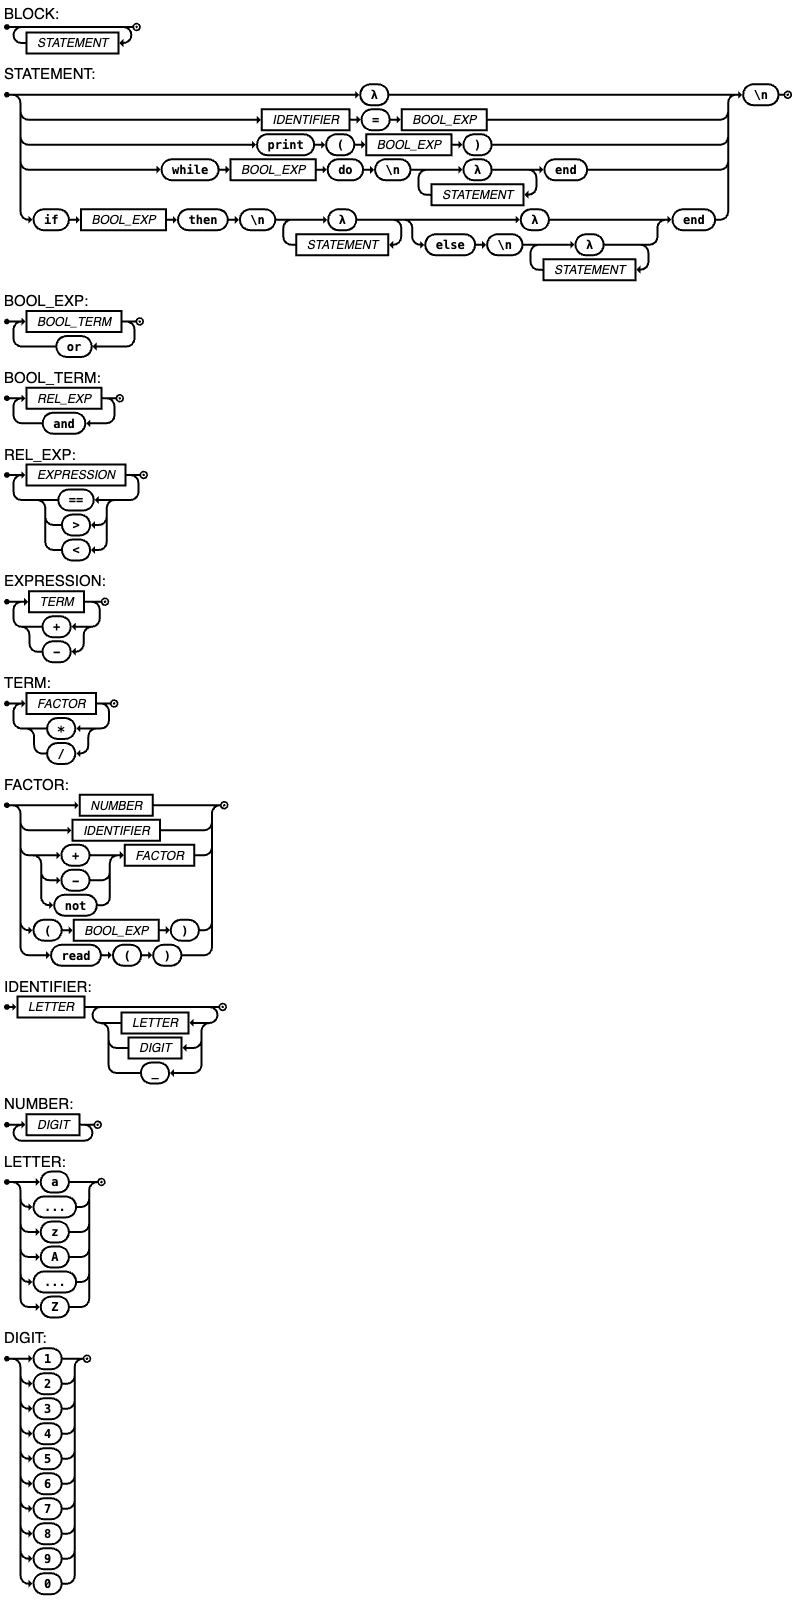
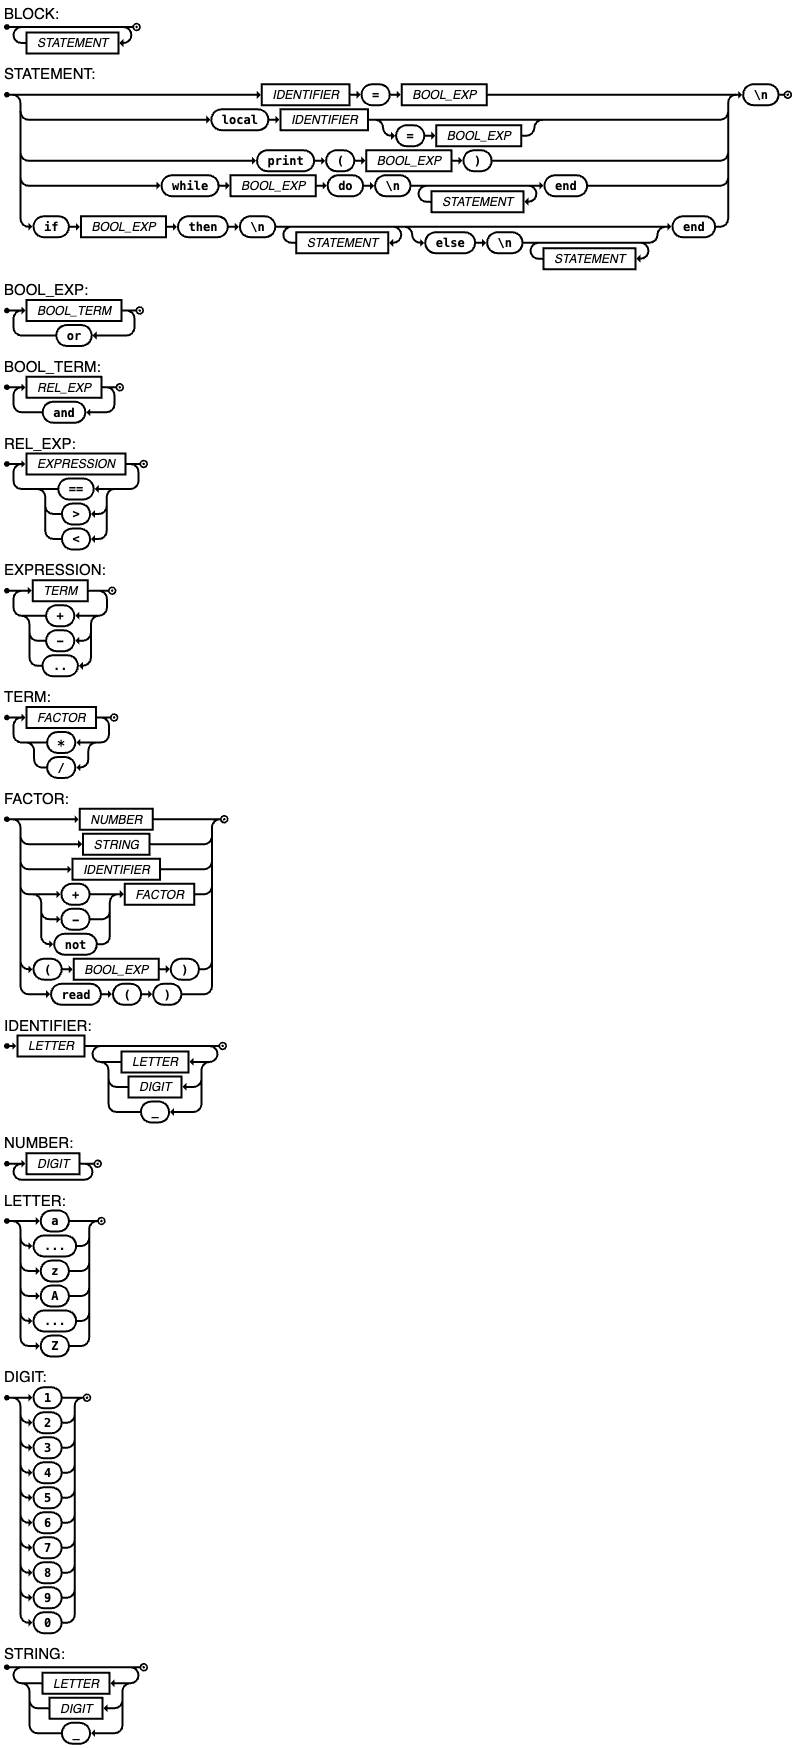
Corrigir bugs no código

Changed region(s): [[0.0, 0.0, 0.9937, 1.0]]

diff --git a/main.swift b/main.swift
@@ -24,10 +24,15 @@ class PrePro {
   }
 }
 
+enum EvalResult {
+  case integer(Int)
+  case string(String)
+}
+
 protocol Node {
   var value: String { get set }
   var children: [Node] { get set }
-  func evaluate() -> Int
+  func evaluate() -> EvalResult
 }
 
 class BinOp: Node {
@@ -39,27 +44,38 @@ class BinOp: Node {
     self.children = children
   }
 
-  func evaluate() -> Int {
-    if self.value == "PLUS" {
-      return self.children[0].evaluate() + self.children[1].evaluate()
-    } else if self.value == "MINUS" {
-      return self.children[0].evaluate() - self.children[1].evaluate()
-    } else if self.value == "MUL" {
-      return self.children[0].evaluate() * self.children[1].evaluate()
-    } else if self.value == "DIV" {
-      return self.children[0].evaluate() / self.children[1].evaluate()
-    } else if self.value == "OR" {
-      return ((self.children[0].evaluate() != 0) || (self.children[1].evaluate() != 0)) ? 1 : 0
-    } else if self.value == "AND" {
-      return ((self.children[0].evaluate() != 0) && (self.children[1].evaluate() != 0)) ? 1 : 0
-    } else if self.value == "EQ" {
-      return (self.children[0].evaluate() == self.children[1].evaluate()) ? 1 : 0
-    } else if self.value == "GT" {
-      return (self.children[0].evaluate() > self.children[1].evaluate()) ? 1 : 0
-    } else if self.value == "LT" {
-      return (self.children[0].evaluate() < self.children[1].evaluate()) ? 1 : 0
+  func evaluate() -> EvalResult {
+    let firstValue = self.children[0].evaluate()
+    let secondValue = self.children[1].evaluate()
+    
+    switch (firstResult, secondResult) {
+      case let (.integer(firstVal), .integer(secondVal)):
+        switch self.value {
+          case "PLUS":
+            return .integer(firstVal + secondVal)
+          case "MINUS":
+            return .integer(firstVal - secondVal)
+          case "MUL":
+            return .integer(firstVal * secondVal)
+          case "DIV":
+            return .integer(firstVal / secondVal)
+          case "GT":
+            return .integer((firstVal > secondVal) ? 1 : 0)
+          case "LT":
+            return .integer((firstVal < secondVal) ? 1 : 0)
+          default:
+            return .integer(0)
+        }
+      case let (.string(firstStr), .string(secondStr)):
+        if self.value == "CONCAT" {
+          return .string(firstStr + secondStr)
+        } else {
+          writeStderrAndExit("Unsupported operation on strings")
+        }
+      default:
+        writeStderrAndExit("Type mismatch in binary operation")
     }
-    return 0
+    return .integer(0) // Default return in case of an error, consider a better error handling strategy
   }
 }
 
@@ -72,13 +88,21 @@ class UnOp: Node {
     self.children = children
   }
 
-  func evaluate() -> Int {
+  func evaluate() {
+    let value = self.children[0].evaluate()
+
+    if self.value == "NOT" {
+      return (value == 0) ? 1 : 0
+    }
+
+    if value is String {
+      writeStderrAndExit("Cannot perform unary arithmetic operations on Strings")
+    } 
+    
     if self.value == "PLUS" {
-      return self.children[0].evaluate()
+      return value
     } else if self.value == "MINUS" {
-      return -self.children[0].evaluate()
-    } else if self.value == "NOT" {
-      return (self.children[0].evaluate() == 0) ? 1 : 0
+      return -value
     }
     return 0
   }
@@ -93,13 +117,27 @@ class IntVal: Node {
     self.children = children
   }
 
-  func evaluate() -> Int {
+  func evaluate() {
     if let intValue = Int(self.value) {
       return intValue
     } else {
       writeStderrAndExit("IntVal value could not cast String to Int")
     }
     return 0
+  }
+}
+
+class StringVal: Node {
+  var value: String
+  var children: [Node]
+
+  init(value: String, children: [Node]) {
+    self.value = value
+    self.children = children
+  }
+
+  func evaluate() {
+    return self.value
   }
 }
 
@@ -112,23 +150,37 @@ class NoOp: Node {
     self.children = children
   }
 
-  func evaluate() -> Int {
+  func evaluate() {
     return 0
   }
 }
 
-class SymbolTable {
-  private var variables: [String: Int] = [:]
+enum VariableTypes {
+  case integer(Int)
+  case string(String)
+}
 
-  func setValue(_ variable: String, _ value: Int) {
+class SymbolTable {
+  private var variables: [String: VariableTypes] = [:]
+
+  func initVar(_ variable: String) {
+    variables[variable] = .integer(0)
+  }
+
+  func setValue(_ variable: String, _ value: VariableTypes) {
+    guard variables.keys.contains(variable) else {
+      writeStderrAndExit("Attempt to set an uninitialized variable: \(variable)")
+      return
+    }
     variables[variable] = value
   }
 
-  func getValue(_ variable: String) -> Int {
-    if variables[variable] == nil {
+  func getValue(_ variable: String) -> VariableTypes? {
+    guard let value = variables[variable] else {
       writeStderrAndExit("Variable not found in SymbolTable: \(variable)")
+      return nil
     }
-    return variables[variable]!
+    return value
   }
 }
 
@@ -180,8 +232,26 @@ class Tokenizer {
         } else {
           self.next = Token(type: "ASSIGN", value: "0")
         }
+      } else if char == "." {
+        if source[source.index(source.startIndex, offsetBy: position+1)] == "." {
+          self.next = Token(type: "CONCAT", value: "0")
+          position += 1
+        } else {
+          writeStderrAndExit("Invalid character \(tokenWord)")
+        }
       } else if char == "\n" {
         self.next = Token(type: "EOL", value: "0")
+      } else if char == "\"" {
+        while position < source.count {
+          let nextChar = source[source.index(source.startIndex, offsetBy: position)]
+          if nextChar == "\"" {
+            break
+          } else {
+            tokenWord += String(nextChar)
+          }
+          position += 1
+        }
+        self.next = Token(type: "STRING", value: tokenWord)
       } else if char.isNumber {
         while position < source.count {
           let nextChar = source[source.index(source.startIndex, offsetBy: position)]
@@ -296,7 +366,7 @@ class Parser {
 
   private func parseExpression(symbolTable: SymbolTable) -> Node {
     var result = parseTerm(symbolTable: symbolTable)
-    while tokenizer.next.type == "PLUS" || tokenizer.next.type == "MINUS" {
+    while tokenizer.next.type == "PLUS" || tokenizer.next.type == "MINUS" || tokenizer.next.type == "CONCAT" {
       let operatorType = tokenizer.next.type
       tokenizer.selectNext()
       result = BinOp(value: operatorType, children: [result, parseTerm(symbolTable: symbolTable)])
@@ -426,6 +496,30 @@ class Parser {
     return NoOp(value: "", children: [])
   }
 
+  private func parseDeclaration(symbolTable: SymbolTable) -> Node {
+    if tokenizer.next.type == "IDENTIFIER" {
+      let variableName = tokenizer.next.value
+      symbolTable.initVar(variableName)
+      tokenizer.selectNext()
+      if tokenizer.next.type == "ASSIGN" {
+        tokenizer.selectNext()
+        let variableValue = parseBoolExpression(symbolTable: symbolTable).evaluate()
+        if tokenizer.next.type == "STRING" {
+          symbolTable.setValue(variableName, .string(variableValue))
+          tokenizer.selectNext()
+        } else if tokenizer.next.type == "NUMBER" {
+          symbolTable.setValue(variableName, .integer(variableValue))
+          tokenizer.selectNext()
+        } else {
+          writeStderrAndExit("Invalid variable value in declaration")
+        }
+      }
+    } else {
+      writeStderrAndExit("Invalid variable name in declaration")
+    }
+    return NoOp(value: "", children: [])
+  }
+
   private func parseAssignment(symbolTable: SymbolTable, variableName: String) -> Node {
     if tokenizer.next.type == "ASSIGN" {
       tokenizer.selectNext()
@@ -443,6 +537,9 @@ class Parser {
       let variableName = tokenizer.next.value
       tokenizer.selectNext()
       return parseAssignment(symbolTable: symbolTable, variableName: variableName)
+    } else if tokenizer.next.type == "DECLARATION" {
+      tokenizer.selectNext()
+      return parseDeclaration(symbolTable: symbolTable)
     } else if tokenizer.next.type == "PRINT" {
       tokenizer.selectNext()
       return parsePrint(symbolTable: symbolTable)

diff --git a/README.md b/README.md
@@ -8,17 +8,18 @@
 
 ```ebnf
 BLOCK = { STATEMENT };
-STATEMENT = ( "λ" | IDENTIFIER, "=", BOOL_EXP | "print", "(", BOOL_EXP, ")"  | "while", BOOL_EXP, "do", "\n", "λ", { ( STATEMENT ), "λ" }, "end" | "if", BOOL_EXP, "then", "\n", "λ", { ( STATEMENT ), "λ" }, ( "λ" | ( "else", "\n", "λ", { ( STATEMENT ), "λ" })), "end" ), "\n" ;
+STATEMENT = ( IDENTIFIER, "=", BOOL_EXP | "local", IDENTIFIER, ["=",BOOL_EXP] | "print", "(", BOOL_EXP, ")" | "while", BOOL_EXP, "do", "\n", { ( STATEMENT )}, "end" | "if", BOOL_EXP, "then", "\n", { ( STATEMENT ) }, [ "else", "\n", { ( STATEMENT )}], "end" ), "\n" ;
 BOOL_EXP = BOOL_TERM, { ("or"), BOOL_TERM } ;
 BOOL_TERM = REL_EXP, { ("and"), REL_EXP } ;
 REL_EXP = EXPRESSION, { ("==" | ">" | "<"), EXPRESSION } ;
-EXPRESSION = TERM, { ("+" | "-"), TERM } ;
+EXPRESSION = TERM, { ("+" | "-" |".."), TERM } ;
 TERM = FACTOR, { ("*" | "/"), FACTOR } ;
-FACTOR = NUMBER | IDENTIFIER | (("+" | "-" | "not"), FACTOR ) | "(", BOOL_EXP, ")" | "read", "(", ")" ;
+FACTOR = NUMBER | STRING |IDENTIFIER | (("+" | "-" | "not"), FACTOR ) | "(", BOOL_EXP, ")" | "read", "(", ")" ;
 IDENTIFIER = LETTER, { LETTER | DIGIT | "_" } ;
 NUMBER = DIGIT, { DIGIT } ;
 LETTER = ( "a" | "..." | "z" | "A" | "..." | "Z" ) ;
 DIGIT = ( "1" | "2" | "3" | "4" | "5" | "6" | "7" | "8" | "9" | "0" ) ;
+STRING = '"', ({LETTER | DIGIT | "_"}), '"';
 ```
 
 ## Railroad Diagram
